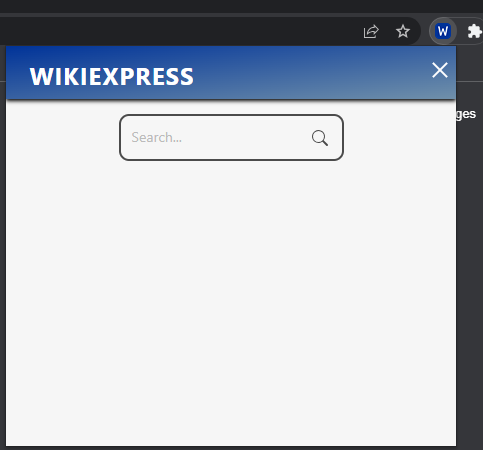
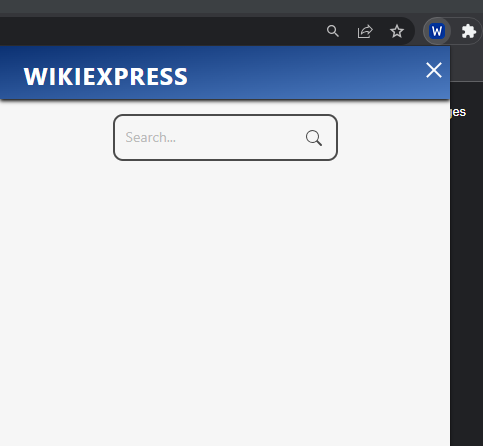
Fixed bug on returning wrong articles

Changed region(s): [[0.0, 0.0, 1.0, 1.0], [0.7453, 0.0583, 0.7764, 0.0874], [0.6832, 0.0583, 0.7143, 0.0874]]

diff --git a/extension/popup.js b/extension/popup.js
@@ -69,16 +69,20 @@ function getWikiInfo(searchTerm){
       fetch( endpointUrl + params)
       .then(function(response){return response.json();})
       .then(function(response) {  
-        console.log("Successfully made connection with Wikipedia.")
         const page = Object.values(response.query.pages)[0];
         const searchItem = page;
         const pageLink = "https://en.wikipedia.org/wiki/" + searchTerm;
-        const imageSource = page.thumbnail.source;
-        if(page.extract===""){
+
+        // Check if the query exists
+        if(page.extract===queryTerm+" may refer to:"){
           searchTitle.textContent = queryTerm;
-          searchSnippet.innerHTML = 'To view information about '+ queryTerm+ ' you need to press the link below.';
-          console.log('Wikipedia article was redirected.')
+          searchSnippet.innerHTML = "Sorry, "+queryTerm+" doesn't exist, follow the link below for suggestions or try again!";
+          console.log('Wikipedia article not found.')
         } else {
+          console.log(page.thumbnail)
+          // Check for image thumbnail and retrieve it
+          const imageSource = getImage(page)
+
           // Limit the Wikipedia extract to n sentences
           const extract = limitExtractToSentences(searchItem.extract, 4)
           searchTitle.textContent = searchItem.title;
@@ -91,6 +95,8 @@ function getWikiInfo(searchTerm){
         searchURL.href = pageLink;
         searchURL.text = "Read more on Wikipedia!";
         searchURL.target = "_blank";
+
+        console.log("Successfully made connection with Wikipedia.")
           
       })
       .catch(function(error){console.log(error);});
@@ -112,6 +118,17 @@ function getWikiInfo(searchTerm){
   .catch(function(error){console.log(error);});
 
   };
+
+
+function getImage(page){
+  // Check for image thumbnail and retrieve it
+  if (page.thumbnail=== undefined){
+    console.log('Article has no image thumbnail.')
+    return "images/icon128.png"; 
+  } else {
+    return page.thumbnail.source; 
+  }
+};
 
 
 // Function to limit the extract to a specified number of sentences

diff --git a/extension/popup.css b/extension/popup.css
@@ -21,6 +21,7 @@ header {
   margin-left: 5%;
   letter-spacing: 1px;
   text-transform: uppercase;
+  font-family: Arial, Helvetica, sans-serif;
 }
 
 /* Top Right Close button */
@@ -107,6 +108,7 @@ body {
 
 
 
+
 /* Headings */
 h1, h2, h3, h4, h5, h6 {
     font-weight: bold;
@@ -122,7 +124,7 @@ h1, h2, h3, h4, h5, h6 {
     margin-top: 0px;
     font-size: 22px;
     margin-right: 10px;
-    display: inline-block;
+    
     }
     
     h3 {
